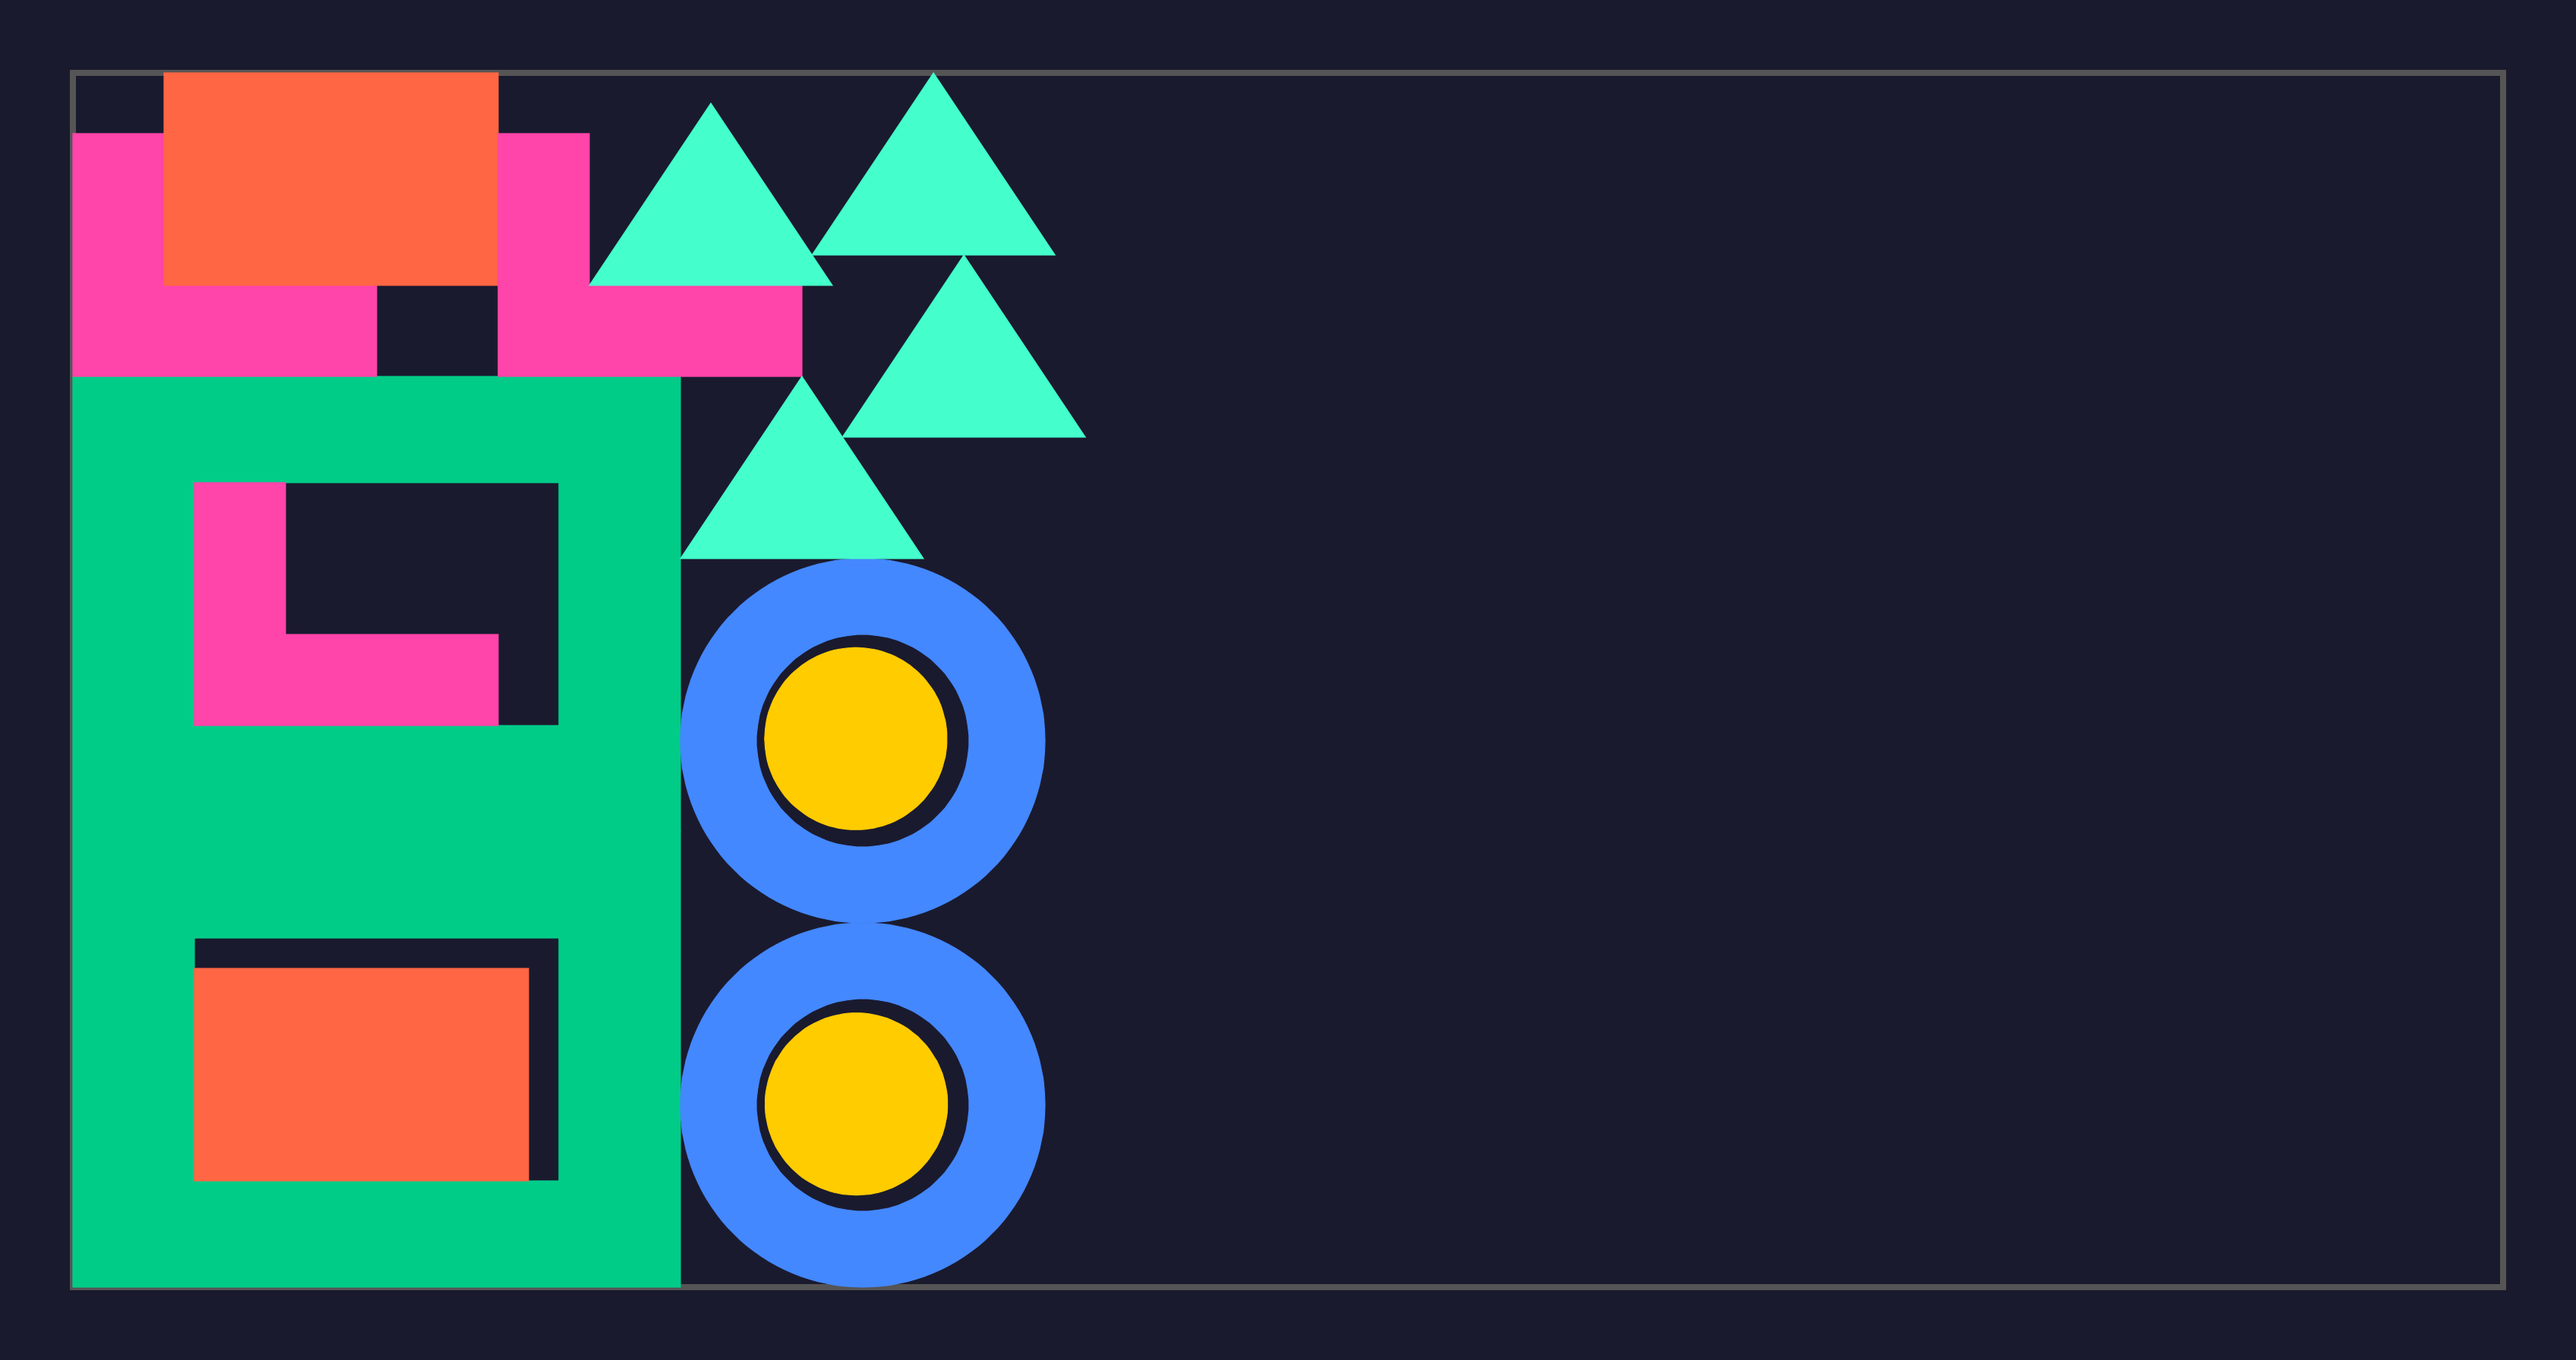
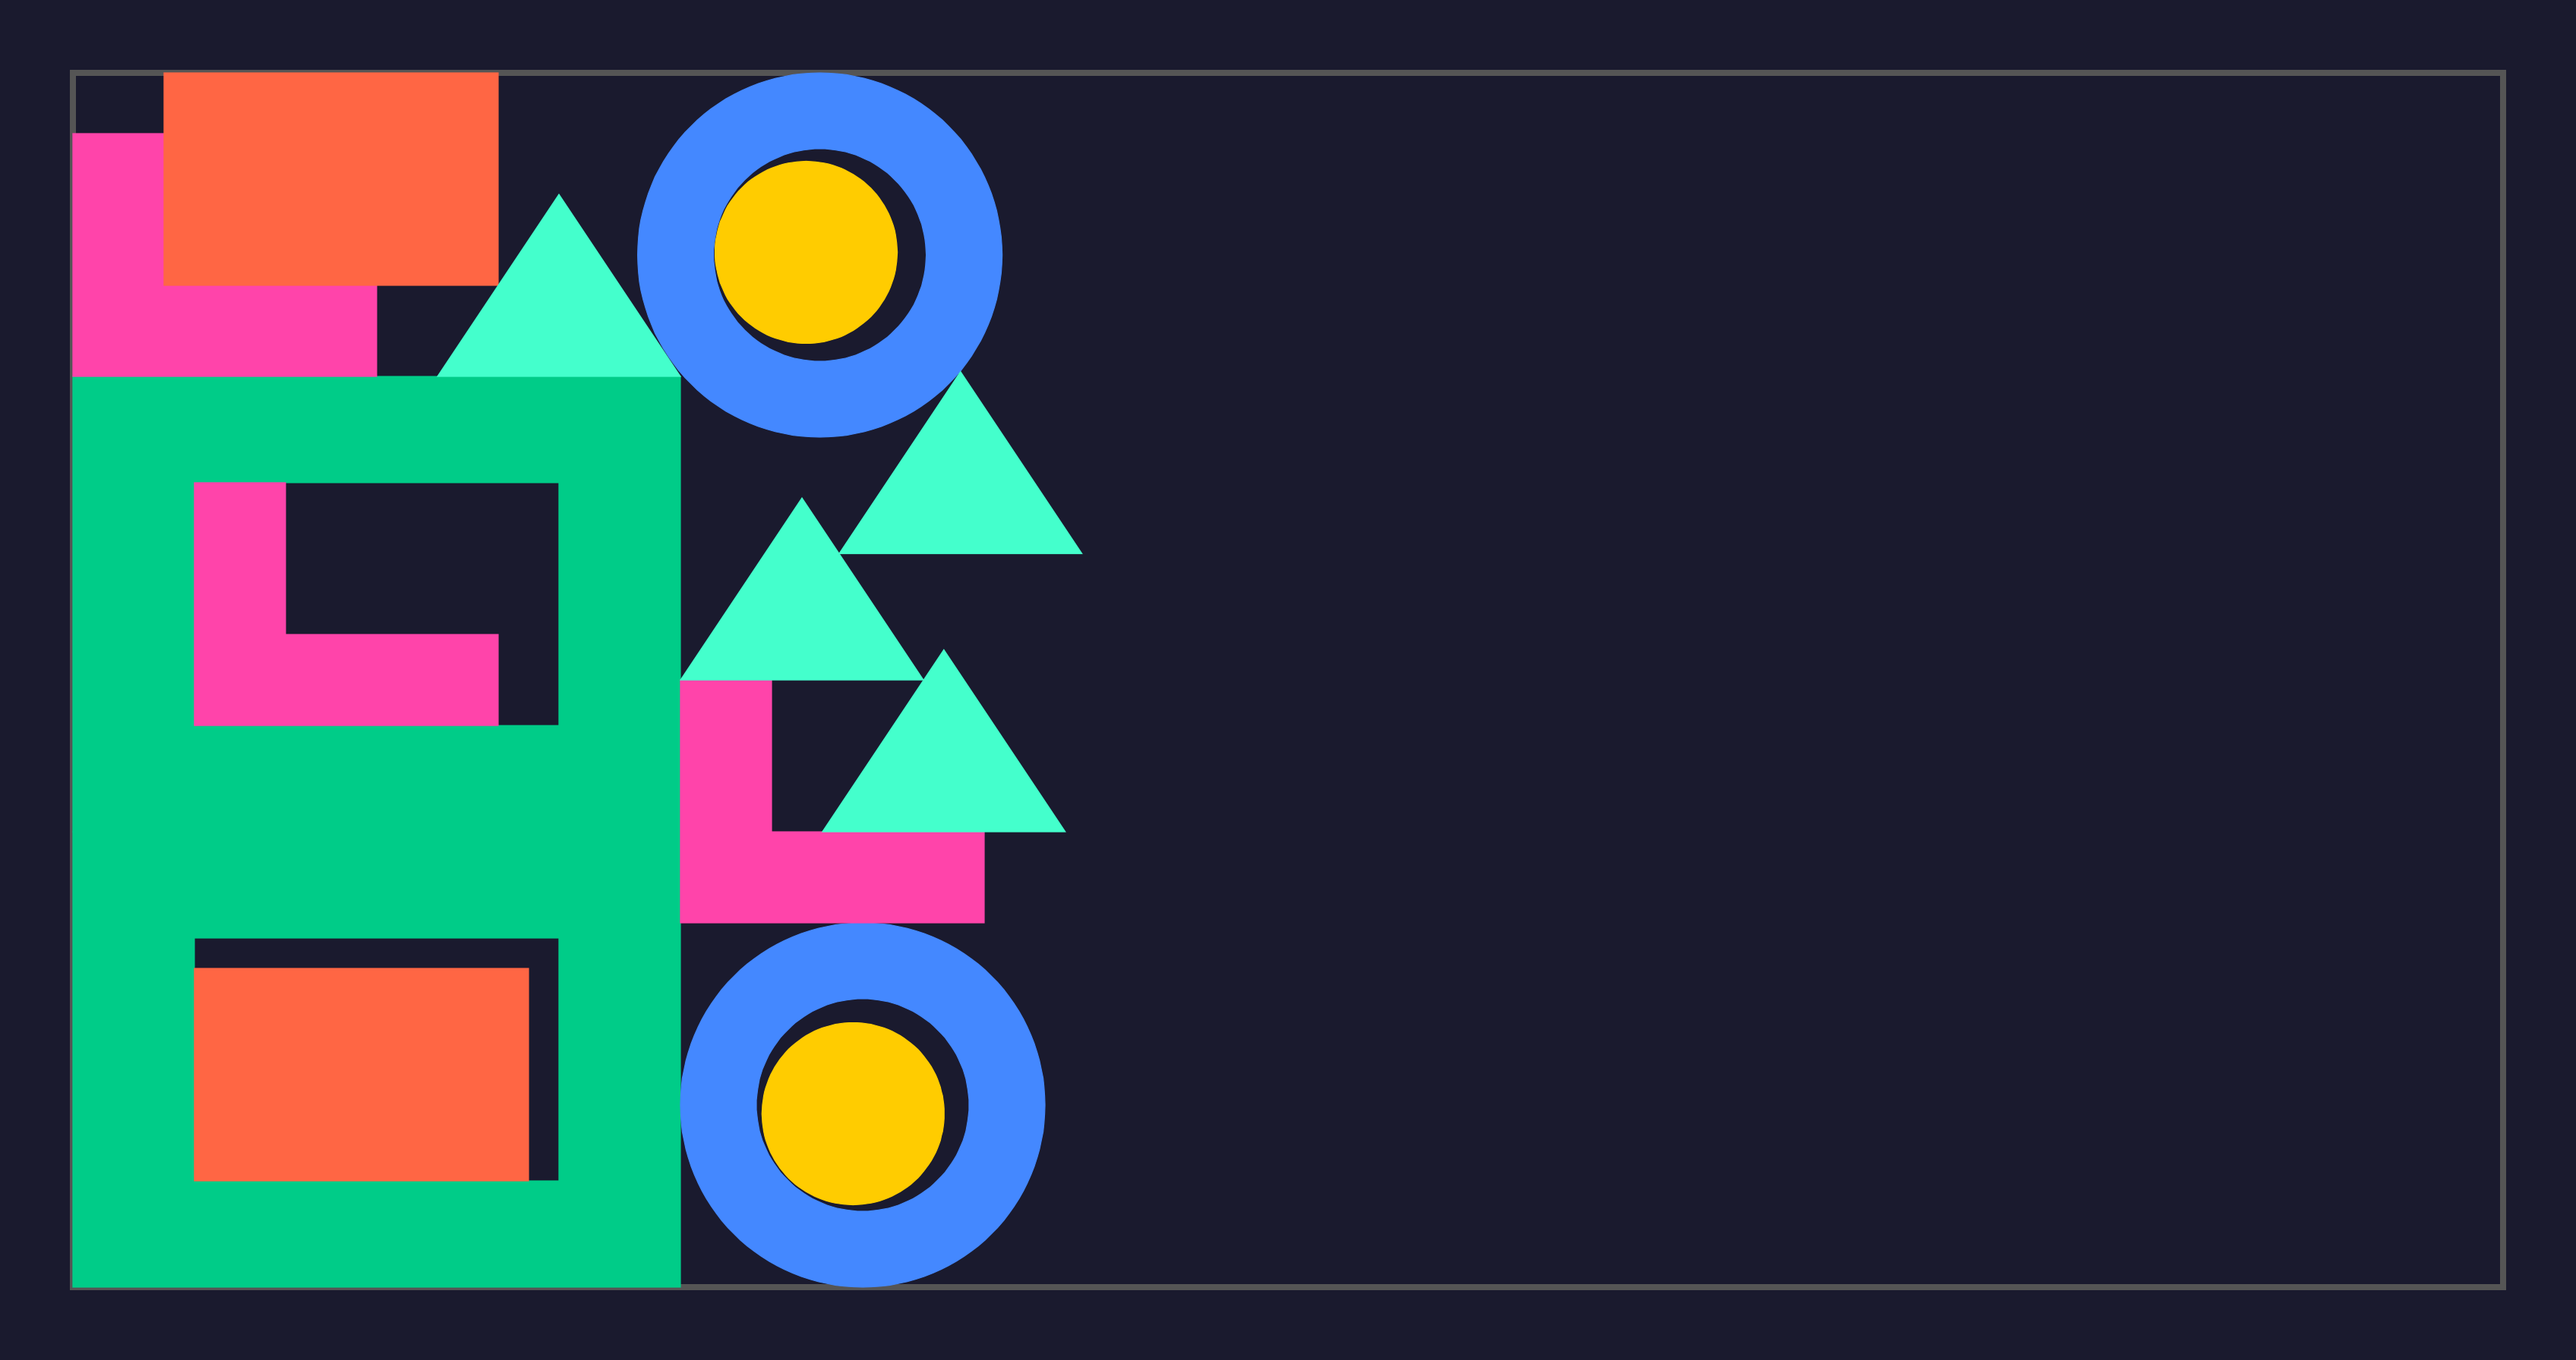
Release v0.9.5: packingsolver be6c31921, periodic packing obstacles as rectangles
Pin packingsolver be6c31921 (master, 2026-10-20). No API change: the
irregular CLI, instance JSON and certificate are untouched, so no wrapper
code moves.

tree_search_periodic_packing covers fixed items, defects and bin borders
with sets of rectangles (#726, follow-up to #720) instead of their bounding
box, so a fixed frame's hole stays free: a 400x300 frame with a 320x220
hole and 200 copies of a 30x28 rectangle went from 0 to 77 placed (63 at
spacing 3), equal to use_tree_search. One item spacing is no longer lost
in front of each obstacle. Irregular items still pack tighter with tree
search (200 L shapes beside a solid pin: 66 default, 76 tree search).

Shape 9e216ba5 -> a4efbe93: outer_approximation_by_rectangles. Power-of-two
helpers return 1 for values <= 0.

Tests: test_nesting, test_shapely_easy_use, test_adaptive_stop pass;
test2 render regenerated.

diff --git a/python/pyckingsolver/__init__.py b/python/pyckingsolver/__init__.py
@@ -28,7 +28,7 @@ from pyckingsolver.types import (
     SolutionItem,
 )
 
-__version__ = "0.9.4"
+__version__ = "0.9.5"
 
 __all__ = [
     "__version__",

diff --git a/README.md b/README.md
@@ -29,23 +29,22 @@ The C++ solver binary is **bundled** — no compilation needed on Windows x64 an
 
 ---
 
-## What's New in 0.9.4
+## What's New in 0.9.5
 
-- **C++ pin moves to packingsolver `0b2b69ef3` (master, 2026-10-18).** No API change: the
+- **C++ pin moves to packingsolver `be6c31921` (master, 2026-10-20).** No API change: the
   irregular CLI, instance JSON and certificate are untouched, so no wrapper code moves.
-- **Fixed items are honoured by periodic packing** (fontanf/packingsolver#720, fixed by #721).
-  Auto-selection runs `tree_search_periodic_packing` on a single bin once item types with more
-  than 16 copies cover 80% of the bin or of the item area, and that algorithm ignored fixed items:
-  they were missing from the solution and other items were placed on them. It now cuts each fixed
-  item out of the free space as its bounding box inflated by the item-item spacing, counts it
-  against its type's copies and returns it in the solution. On the #720 instance (one pinned
-  pentagon, 30 copies of a small one) 0.9.3 dropped the pin and overlapped it by 3707 mm2 (3002
-  with spacing 3); 0.9.4 keeps it with no overlap and the spacing held. The bounding box is
-  coarse around large or irregular pins, so `use_tree_search=True` can still pack tighter there.
-- **Shape update** (shape `0944ac20` -> `9e216ba5`, 9 commits): `GeneralizedTrapezoid::extend_left`
-  now updates the trapezoid's widths and area, and `Shape::check` rejects shapes whose consecutive
-  elements are not connected. A `Circle` basic shape and the power-of-two helper fix do not reach
-  the wrapper's instances (arcs are discretized; bins are larger than 1).
+- **Periodic packing sees obstacles as rectangle sets, not bounding boxes**
+  (fontanf/packingsolver#726, follow-up to #720). Fixed items, defects and bin borders are covered
+  by a few rectangles (shape's new `outer_approximation_by_rectangles`), so a fixed frame's hole
+  stays free. A 400 x 300 frame with a 320 x 220 hole and 200 copies of a 30 x 28 rectangle:
+  0.9.4 placed 0 in the hole by default, 0.9.5 places 77 (63 at spacing 3), the same as
+  `use_tree_search=True`. Periodic packing also no longer loses one item spacing in front of each
+  obstacle, so a grid that fits exactly next to a fixed item or defect is accepted.
+- Periodic packing still places only rectangular grids, so with irregular items
+  `use_tree_search=True` can place more: 200 L shapes beside a solid 400 x 300 fixed item, 66 by
+  default vs 76 with tree search.
+- **Shape update** (shape `9e216ba5` -> `a4efbe93`): adds `outer_approximation_by_rectangles`.
+  The power-of-two helpers return 1 for values <= 0 (bins are larger than 1, so no wrapper effect).
 
 Older release notes: [CHANGELOG.md](CHANGELOG.md).
 

diff --git a/AGENTS.md b/AGENTS.md
@@ -1,8 +1,8 @@
 # pyckingsolver — Agent Knowledge
 
 Python wrapper for [fontanf/packingsolver](https://github.com/fontanf/packingsolver) irregular (2D nesting) module.  
-C++ submodule pinned at `extern/packingsolver` (commit `0b2b69ef3`, 2026-10-18).
-Python wrapper version: `0.9.4` (see `## v0.2.0 Breaking Changes` below).
+C++ submodule pinned at `extern/packingsolver` (commit `be6c31921`, 2026-10-20).
+Python wrapper version: `0.9.5` (see `## v0.2.0 Breaking Changes` below).
 
 ---
 
@@ -100,6 +100,20 @@ the periodic-packing thresholds. Wrap them only once `instance_builder.cpp::read
   shipped or wrapped. `Objective.BIN_PACKING_CUTTING_COST` belongs to `rectangleguillotine`;
   irregular accepts the string and exits 0 with `bins: null`, so it is deliberately absent
   from the wrapper's `Objective`.
+
+---
+
+## MARK: Recent Upstream Changes (2026-10-18 → 2026-10-20)
+
+Pulled `0b2b69ef3` → `be6c31921` (2 commits). No irregular CLI, instance key or output change.
+Bundled binary rebuilt + re-bundled.
+
+| Commit | Change | Impact |
+|---|---|---|
+| `be6c3192` (#726, follow-up to #720) | **Periodic packing obstacles as rectangle sets**: fixed items, defects and bin borders are covered by `outer_approximation_by_rectangles` (shape `a4efbe93`) instead of their AABB, capped by the simplification waste budget; one item spacing no longer lost in front of each obstacle | A holed pin's hole is free space again: frame + 200 rectangles 0 -> 77 by default (63 at spacing 3), equal to tree search. Irregular items still pack tighter with `use_tree_search=True` (L shapes 66 vs 76), since periodic packing only places grids. |
+| `2773ddab` | Power-of-two helpers return 1 for values <= 0 | Bins are larger than 1. None. |
+
+**Wrapper impact**: none. No CLI flag, instance key or output change.
 
 ---
 

diff --git a/CHANGELOG.md b/CHANGELOG.md
@@ -2,6 +2,24 @@
 
 Older release notes, moved out of the README. The current release's notes stay there.
 
+## 0.9.4
+
+- **C++ pin moves to packingsolver `0b2b69ef3` (master, 2026-10-18).** No API change: the
+  irregular CLI, instance JSON and certificate are untouched, so no wrapper code moves.
+- **Fixed items are honoured by periodic packing** (fontanf/packingsolver#720, fixed by #721).
+  Auto-selection runs `tree_search_periodic_packing` on a single bin once item types with more
+  than 16 copies cover 80% of the bin or of the item area, and that algorithm ignored fixed items:
+  they were missing from the solution and other items were placed on them. It now cuts each fixed
+  item out of the free space as its bounding box inflated by the item-item spacing, counts it
+  against its type's copies and returns it in the solution. On the #720 instance (one pinned
+  pentagon, 30 copies of a small one) 0.9.3 dropped the pin and overlapped it by 3707 mm2 (3002
+  with spacing 3); 0.9.4 keeps it with no overlap and the spacing held. The bounding box is
+  coarse around large or irregular pins, so `use_tree_search=True` can still pack tighter there.
+- **Shape update** (shape `0944ac20` -> `9e216ba5`, 9 commits): `GeneralizedTrapezoid::extend_left`
+  now updates the trapezoid's widths and area, and `Shape::check` rejects shapes whose consecutive
+  elements are not connected. A `Circle` basic shape and the power-of-two helper fix do not reach
+  the wrapper's instances (arcs are discretized; bins are larger than 1).
+
 ## 0.9.3
 
 - **C++ pin moves to packingsolver `a5ddea695` (master, 2026-10-17).** No API change: the
